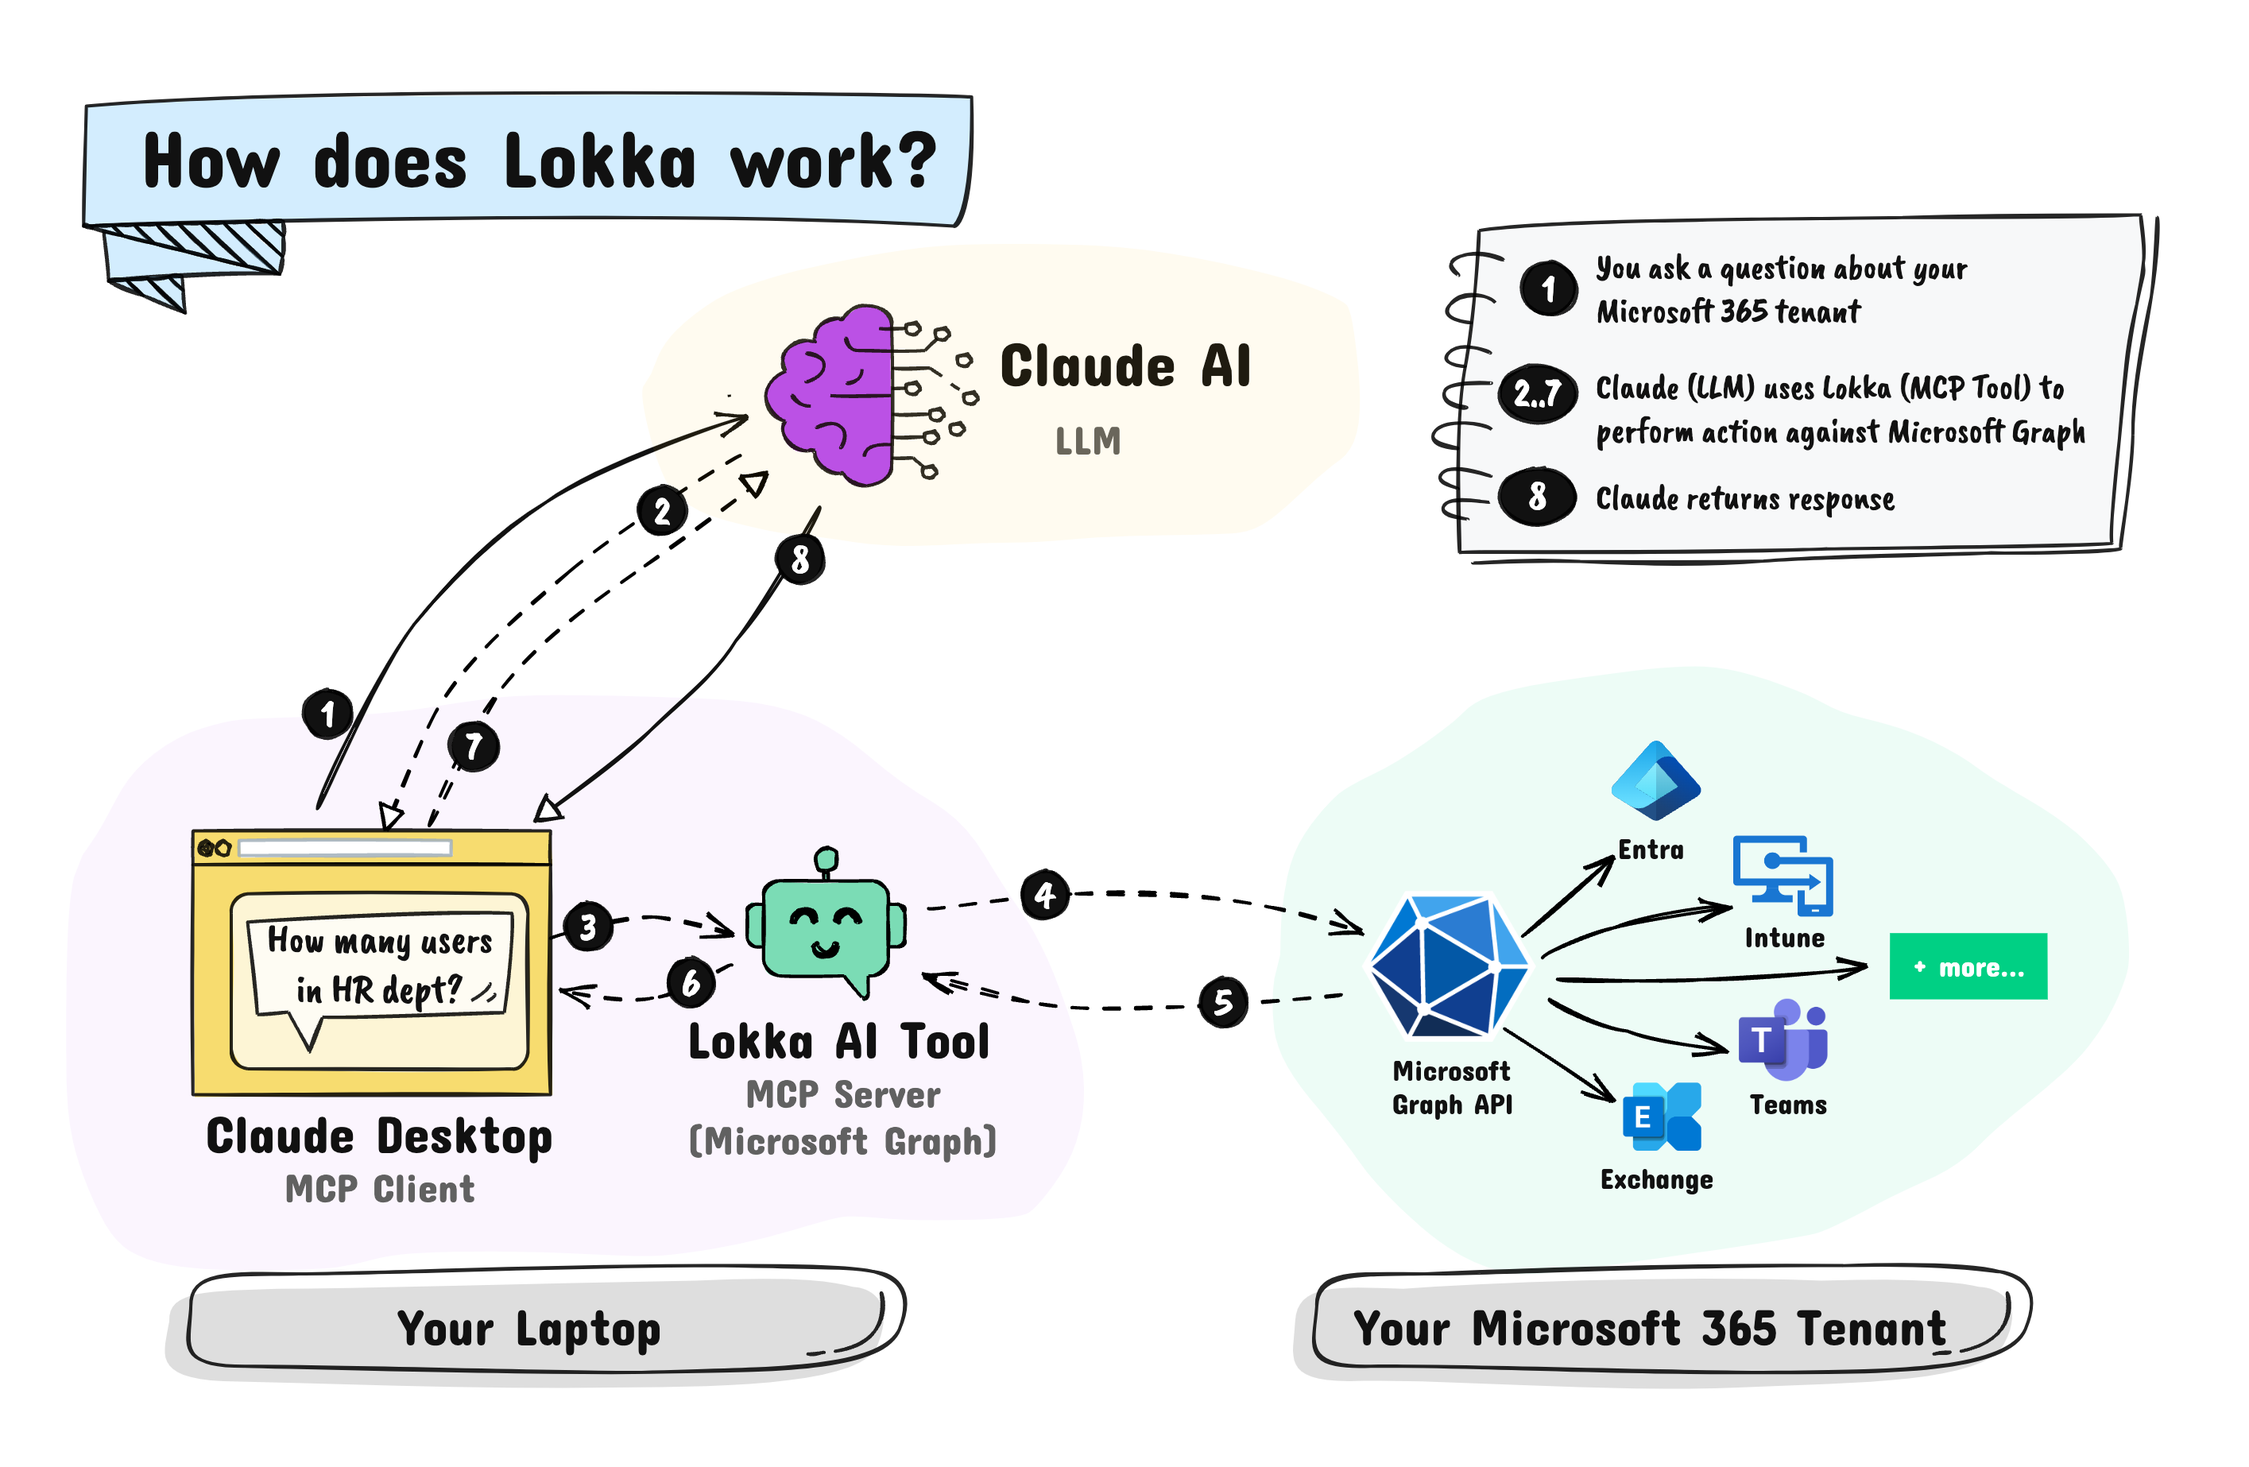
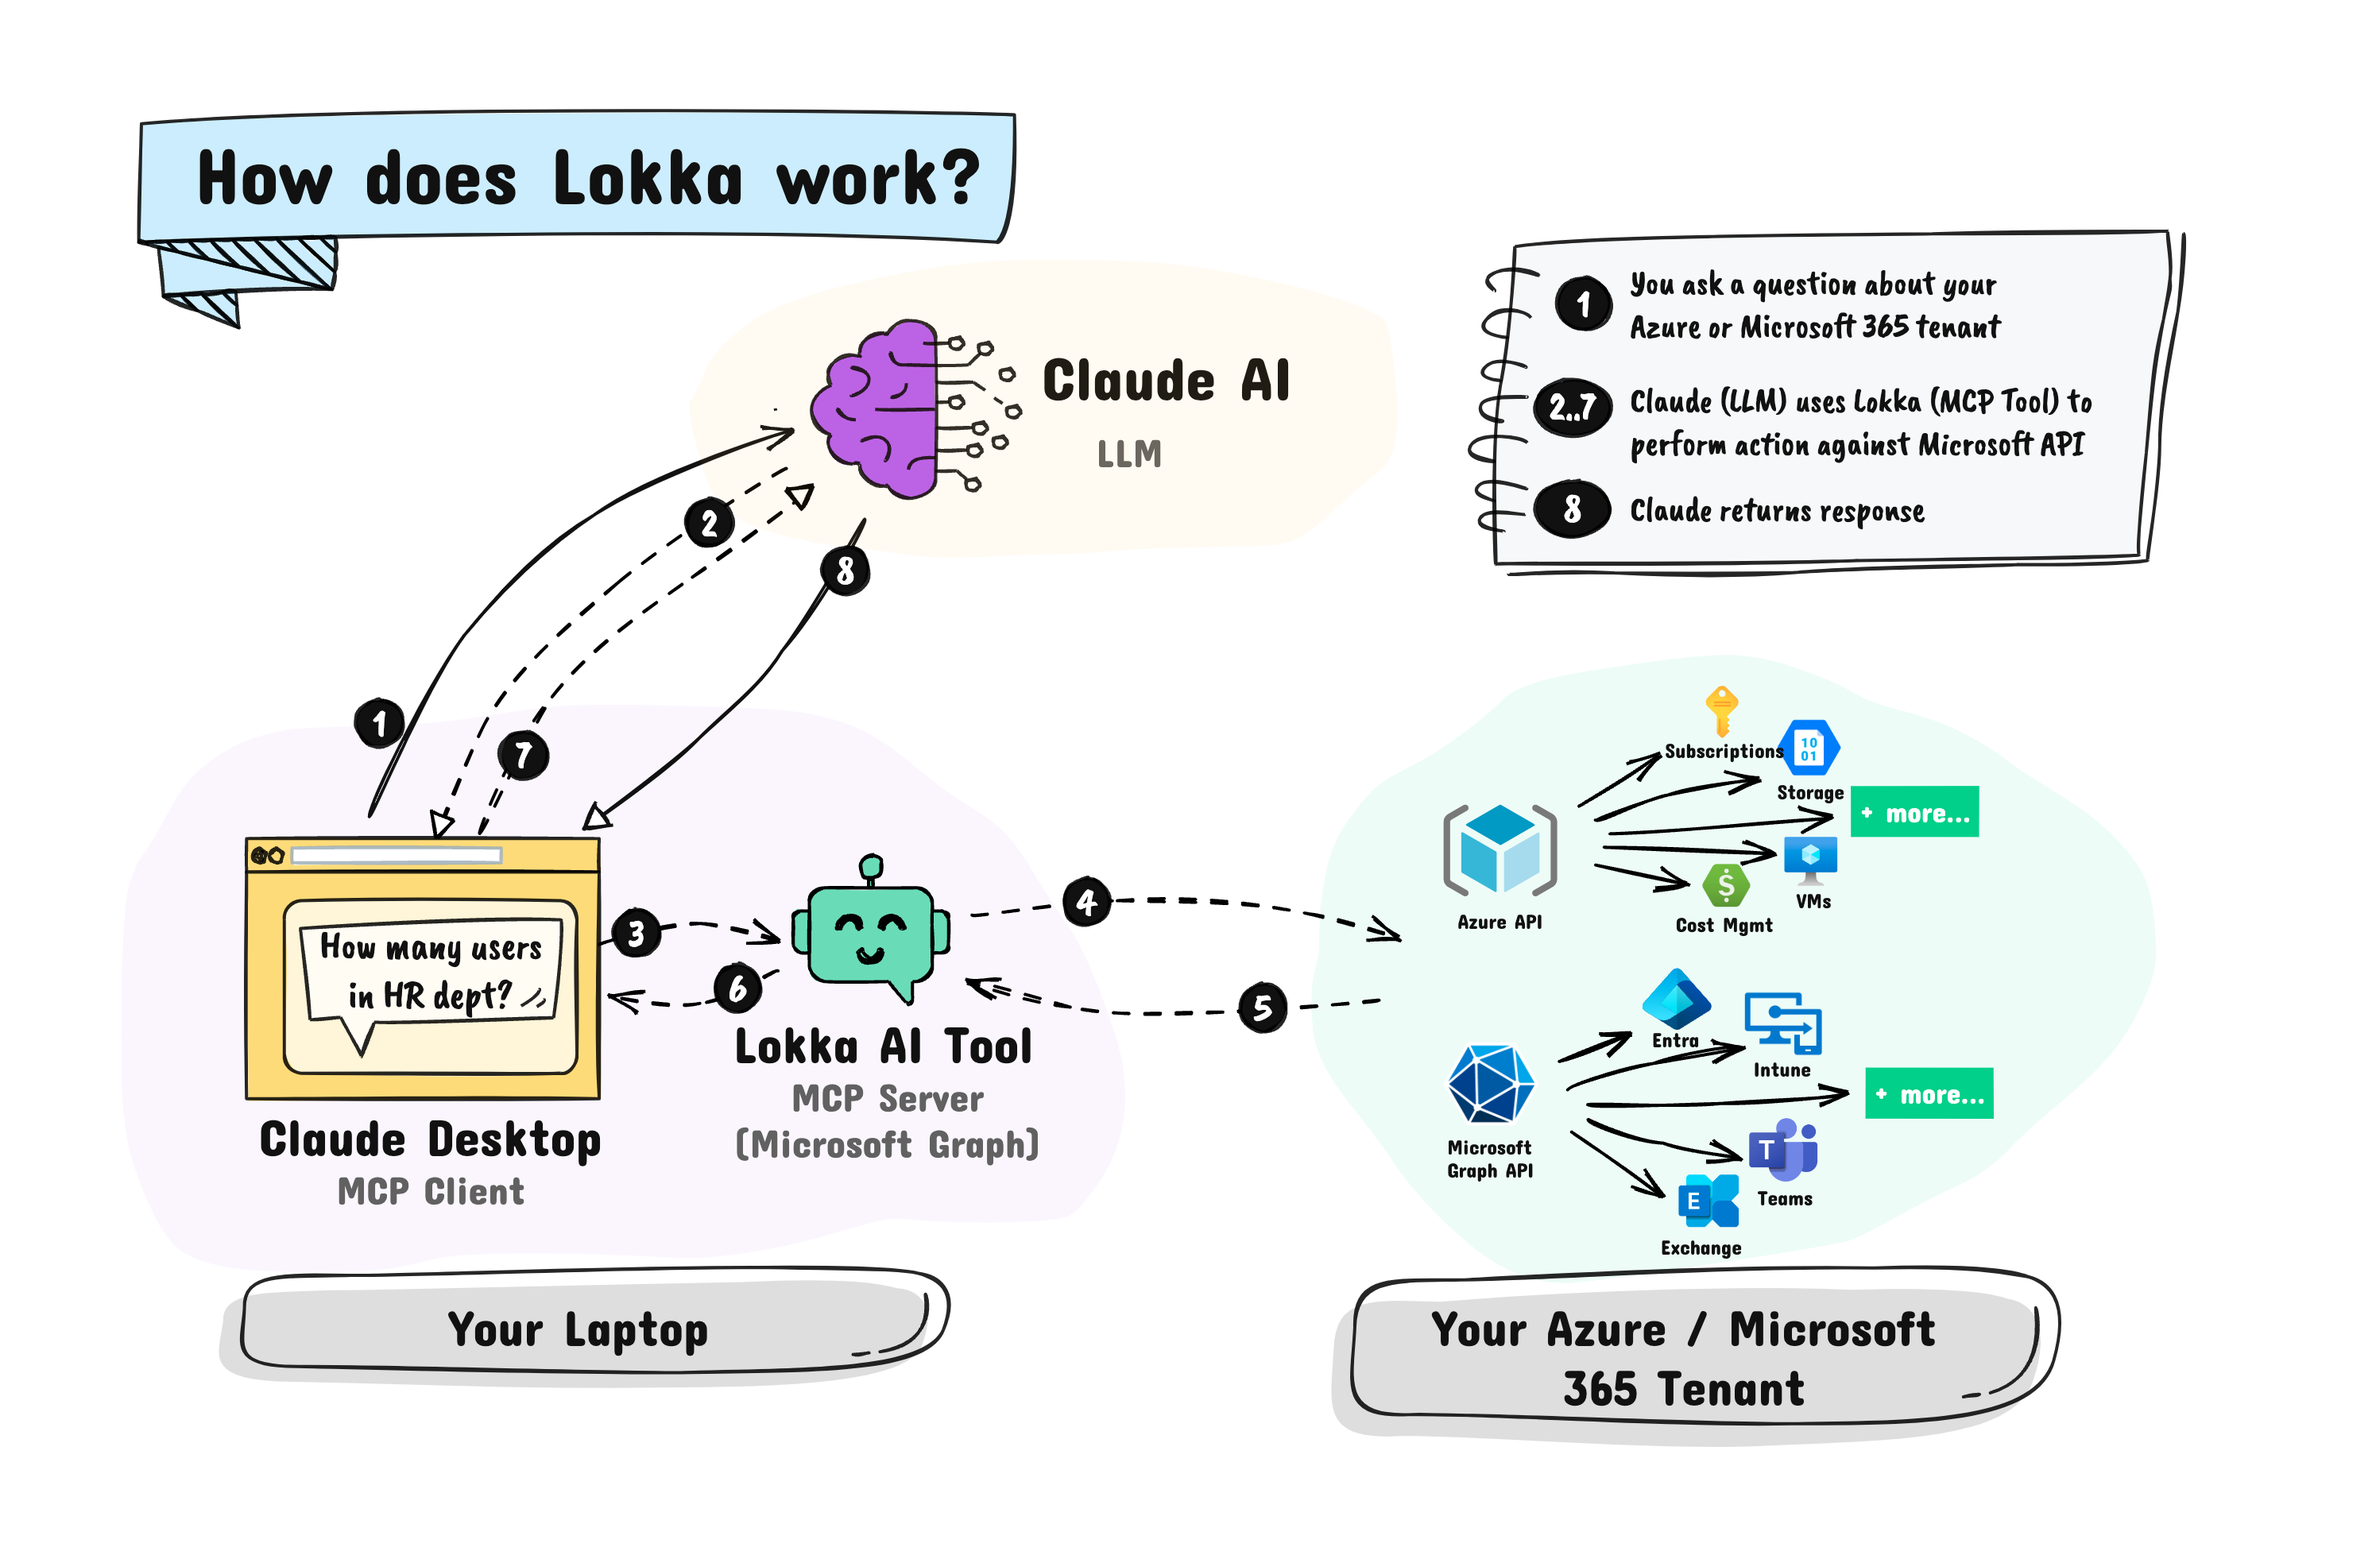
Updated docs to include Azure

diff --git a/src/mcp/src/main.ts b/src/mcp/src/main.ts
@@ -20,7 +20,8 @@ server.tool(
   "Lokka-MicrosoftGraph",
   "A tool to call Microsoft Graph API. It supports querying a Microsoft 365 tenant using the Graph API. Updates are also supported if permissions are provided.",
   {
-    path: z.string().describe("The Graph API URL path to call (e.g. '/me', '/users')"),
+    apiType: z.enum(["graph", "azure"]).describe("Type of Microsoft API to query. Options: 'graph' for Microsoft Graph (Entra) or 'azure' for Azure Resource Management."),
+    path: z.string().describe("The Azure or Graph API URL path to call (e.g. '/users', '/groups', '/subscriptions')"),
     method: z.enum(["get", "post", "put", "patch", "delete"]).describe("HTTP method to use"),
     queryParams: z.record(z.string()).optional().describe("Query parameters like $filter, $select, etc. All parameters are strings."),
     body: z.any().optional().describe("The request body (for POST, PUT, PATCH)"),

diff --git a/website/docs/developer-guide.md b/website/docs/developer-guide.md
@@ -2,6 +2,8 @@
 title: 🧩 Developer guide
 sidebar_position: 3
 ---
+import Tabs from '@theme/Tabs';
+import TabItem from '@theme/TabItem';
 
 Follow this guide if you want to build Lokka from source to contribute to the project.
 
@@ -28,8 +30,9 @@ Follow this guide if you want to build Lokka from source to contribute to the pr
 - When the build is complete, you will see a main.js file find the compiled files in the `\src\mcp\build\` folder.
 
 ## Configuring the agent
-
-### Claude Desktop
+  
+<Tabs>
+  <TabItem value="claude" label="Claude" default>
 
 - In Claude Desktop, open the settings by clicking on the hamburger icon in the top left corner.
 - Select **File** > **Settings** (or press `Ctrl + ,`)
@@ -39,11 +42,12 @@ Follow this guide if you want to build Lokka from source to contribute to the pr
 
 - Note: On Windows the path needs to be escaped with `\\` or use `/` instead of `\`.
   - E.g. `C:\\Users\\<username>\\Documents\\lokka\\src\\mcp\\build\\main.js` or `C:/Users/<username>/Documents/lokka/src/mcp/build/main.js`
+- Tip: Right-click on `build\main.js` in VS Code and select `Copy path` to copy the full path.
 
 ```json
 {
   "mcpServers": {
-      "Lokka-Microsoft-Graph": {
+      "Lokka-Microsoft": {
           "command": "node",
           "args": [
               "<absolute-path-to-main.js>/src/mcp/build/main.js"
@@ -73,6 +77,61 @@ Follow this guide if you want to build Lokka from source to contribute to the pr
   - `Get all the users in my tenant`
   - `Show me the details for John Doe`
   - `Change John's department to IT` - Needs User.ReadWrite.All permission to be granted
+
+</TabItem>
+<TabItem value="vscode" label="VS Code">
+
+### Pre-requisites
+
+- Install the latest version of [VS Code - Insider](https://code.visualstudio.com/insiders/)
+- Install the latest version of [GitHub Copilot in VS Code](https://code.visualstudio.com/docs/copilot/setup)
+
+### VS Code
+
+- In VS Code, open the Command Palette by pressing `Ctrl + Shift +P` (or `Cmd + Shift + P` on Mac).
+- Type `MCP` and select `Command (stdio)`
+- Select
+  - Command: `node`
+  - Server ID: `Lokka-Microsoft`
+- Where to save configuration: `User Settings`
+- This will open the `settings.json` file in VS Code.
+
+- Add the following configuration to the file, using the information you in the **Overview** blade of the Entra application you created earlier.
+
+- Note: On Windows the path needs to be escaped with `\\` or use `/` instead of `\`.
+  - E.g. `C:\\Users\\<username>\\Documents\\lokka\\src\\mcp\\build\\main.js` or `C:/Users/<username>/Documents/lokka/src/mcp/build/main.js`
+- Tip: Right-click on `build\main.js` in VS Code and select `Copy path` to copy the full path.
+
+```json
+"mcp": {
+  "servers": {
+      "Lokka-Microsoft": {
+          "command": "node",
+          "args": [
+              "<absolute-path-to-main.js>/src/mcp/build/main.js"
+          ],
+          "env": {
+            "TENANT_ID": "<tenant-id>",
+            "CLIENT_ID": "<client-id>",
+            "CLIENT_SECRET": "<client-secret>"
+          }
+      }
+  }
+}
+```
+
+- `File` > `Save` to save the file.
+
+### Testing the agent
+
+- Start a new instance of VS Code (File > New Window)
+- Open `Copilot Edits` from `View` → `Copilot Edits`
+- At the bottom of the Copilot Edits panel (below the chat box)
+  - Select `Agent` (if it is showing `Edit`)
+  - Select `Claude 3.7 Sonnet` (if it is showing `GPT-40`)
+
+</TabItem>
+</Tabs>
 
 #### Testing with MCP Inspector
 

diff --git a/README.md b/README.md
@@ -2,19 +2,20 @@
 
 [![npm version](https://badge.fury.io/js/@merill%2Flokka.svg)](https://badge.fury.io/js/@merill%2Flokka)
 
-Lokka is a model-context-protocol server for the Microsoft Graph API that allows you to query and managing your Microsoft tenant with AI.
+Lokka is a model-context-protocol server for the Microsoft Graph and Azure RM APIs that allows you to query and managing your Azure and Microsoft 365 tenants with AI.
 
 <img src="https://github.com/merill/lokka/blob/main/assets/lokka-demo-1.gif?raw=true" alt="Lokka Demo - user create demo" width="500"/>
 
 Please see [Lokka.dev](https://lokka.dev) for how to use Lokka with your favorite AI model and chat client.
 
-Lokka lets you use Claude Desktop, or any MCP Client, to use natural language to accomplish things in your Microsoft 365 tenant through the Microsoft Graph API.
+Lokka lets you use Claude Desktop, or any MCP Client, to use natural language to accomplish things in your Azure and Microsoft 365 tenant through the Microsoft APIs.
 
 e.g.:
 
 - `Create a new security group called 'Sales and HR' with a dynamic rule based on the department attribute.` 
 - `Find all the conditional access policies that haven't excluded the emergency access account`
 - `Show me all the Intune device configuration policies assigned to the 'Call center' group`
+- `What was the most expensive service in Azure last month?`
 
 ![How does Lokka work?](https://github.com/merill/lokka/blob/main/website/docs/assets/how-does-lokka-mcp-server-work.png?raw=true)
 
@@ -30,15 +31,17 @@ See the docs for more information on how to install and configure Lokka.
 
 ### Tools
 
-1. `Lokka-MicrosoftGraph`
-   - Call Microsoft Graph API. Supports querying a Microsoft 365 tenant using the Graph API. Updates are also supported if permissions are provided.
+1. `Lokka-Microsoft`
+   - Call Microsoft Graph & Azure APIs. Supports querying Azure and Microsoft 365 tenants. Updates are also supported if permissions are provided.
    - Input:
-     - `path` (string): The Graph API URL path to call (e.g. '/me', '/users', '/groups')
+     - `apiType` (string): Type of Microsoft API to query. Options: 'graph' for Microsoft Graph (Entra) or 'azure' for Azure Resource Management.
+     - `path` (string): The Azure or Graph API URL path to call (e.g. '/users', '/groups', '/subscriptions').
      - `method` (string): HTTP method to use (e.g., get, post, put, patch, delete)
+     - `apiVersion` (string): Azure Resource Management API version (required for apiType Azure)
+     - `subscriptionId` (string): Azure Subscription ID (for Azure Resource Management).
      - `queryParams` (string): Array of query parameters like $filter, $select, etc. All parameters are strings.
      - `body` (JSON): The request body (for POST, PUT, PATCH)
-   - Returns: Results from the Graph API call.
-
+   - Returns: Results from the Azure or Graph API call.
 
 ### Environment Variables
 
@@ -58,7 +61,7 @@ To use this server with the Claude Desktop app, add the following configuration 
 ```json
 {
   "mcpServers": {
-    "Lokka-Microsoft-Graph": {
+    "Lokka-Microsoft": {
       "command": "npx",
       "args": ["-y", "@merill/lokka"],
       "env": {

diff --git a/website/docs/intro.md b/website/docs/intro.md
@@ -5,12 +5,12 @@ title: 🤖 Introduction
 
 ## What is Lokka?
 
-Lokka is a simple yet powerful middleware that connects AI language models (like ChatGPT or Claude) to your Microsoft 365 tenant using Microsoft Graph.
+Lokka is a simple yet powerful middleware that connects AI language models (like ChatGPT or Claude) to your Azure and Microsoft 365 tenant using the Azure and Microsoft Graph APIs.
 
 This allows you to perform administrative tasks using natural language queries.
 
 :::info
-In technical terms, Lokka is an implementation of the [Model Context Protocol](https://modelcontextprotocol.io/introduction) (MCP) for the Microsoft Graph API.
+In technical terms, Lokka is an implementation of the [Model Context Protocol](https://modelcontextprotocol.io/introduction) (MCP) for the Microsoft Graph and Azure APIs.
 :::
 
 Here's a quick demo. Read on to learn how to set this up on your own machine.
@@ -24,11 +24,12 @@ Here are some examples of queries you can use with Lokka.
 - `Create a new security group called 'Sales and HR' with a dynamic rule based on the department attribute.`
 - `Find all the conditional access policies that haven't excluded the emergency access account`
 - `Show me all the Intune device configuration policies assigned to the 'Call center' group`
+- `What was the most expensive service in Azure last month?`
 
-You can ask Lokka to do anything that Microsoft Graph can do which includes support for Entra, Intune, Teams and SharePoint.
+You can ask Lokka to do anything that Microsoft Graph can do which includes support for Entra, Intune, Teams and SharePoint. In addition to graph you can also work with your Azure resources as well.
 
 :::note
-The agent will only be able to perform the actions based on the Graph permissions you grant it.
+The agent will only be able to perform the actions based on the Graph and Azure permissions you grant it.
 :::
 
 ## What is MCP?

diff --git a/src/mcp/README.md b/src/mcp/README.md
@@ -1,6 +1,6 @@
-# Lokka - MCP Server for Microsoft Graph
+# Lokka - MCP Server for Azure and Microsoft Graph
 
-Lokka is an MCP server for querying and managing your Microsoft 365 tenant using the Microsoft Graph API. It acts as a bridge between the Microsoft Graph API and any compatible MCP client, allowing you to interact with your Microsoft 365 tenant using natural language queries.
+Lokka is an MCP server for querying and managing your Azure and Microsoft 365 tenants using the Microsoft Azure/Graph APIs. It acts as a bridge between the Microsoft APIs and any compatible MCP client, allowing you to interact with your Azure and Microsoft 365 tenant using natural language queries.
 
 ## Sample queries
 
@@ -12,7 +12,7 @@ Here are some examples of queries you can use with Lokka.
 
 ## What is Lokka?
 
-Lokka is designed to be used with any compatible MCP client, such as Claude Desktop, Cursor, Goose, or any other AI model and client that support the Model Context Protocol. It provides a simple and intuitive way to manage your Microsoft 365 tenant using natural language queries.
+Lokka is designed to be used with any compatible MCP client, such as Claude Desktop, Cursor, Goose, or any other AI model and client that support the Model Context Protocol. It provides a simple and intuitive way to manage your Azure and Microsoft 365 tenant using natural language queries.
 
 Follow the guide at [Lokka.dev](https://lokka.dev) to get started with Lokka and learn how to use it with your favorite AI model and chat client.
 
@@ -23,7 +23,7 @@ Follow the guide at [Lokka.dev](https://lokka.dev) to get started with Lokka and
 ```json
 {
   "mcpServers": {
-    "Lokka-Microsoft-Graph": {
+    "Lokka-Microsoft": {
       "command": "npx",
       "args": ["-y", "@merill/lokka"],
       "env": {
